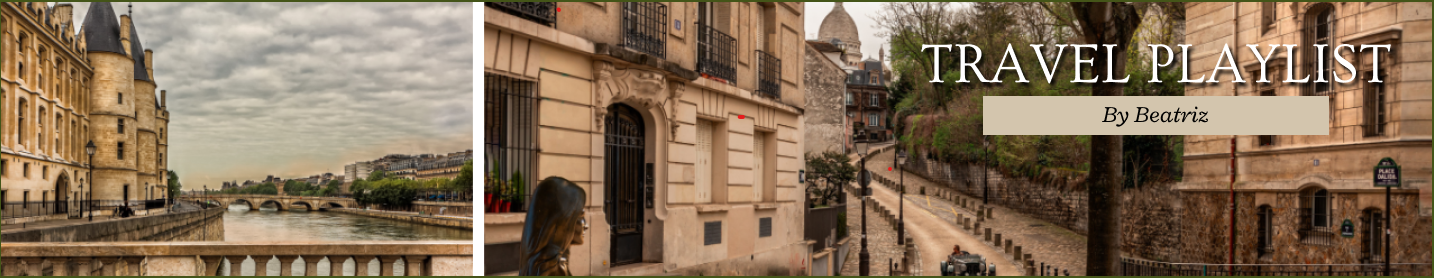
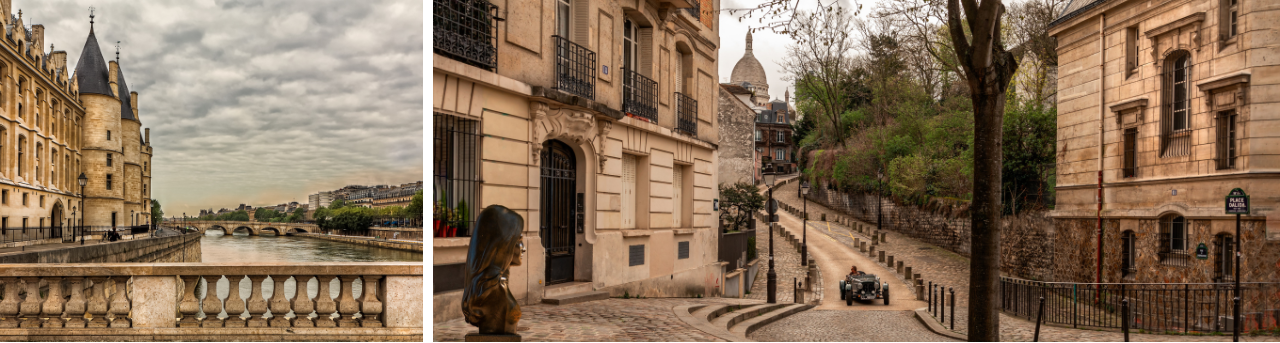
Add profile picture

diff --git a/travelplaylist/index.html b/travelplaylist/index.html
@@ -16,11 +16,15 @@
     <link rel="stylesheet" href="css/header.css">
     <link rel="stylesheet" href="css/title.css">
     <link rel="stylesheet" href="css/sub-title.css">
+    <link rel="stylesheet" href="css/profile-img.css">
 </head>
 <body>
-    <header class="header">
-        <h1>Travel Playlist</h1>
-        <h2 class="sub-title">By Beatriz</h2>
-    </header>
+    <div class="home">
+        <header class="header">
+            <h1>Travel Playlist</h1>
+            <h2 class="sub-title">By Beatriz</h2>
+        </header>
+        <img class="img" src="./css/assets/pixel-art-avatar.png" alt="profile picture">
+    </div>
 </body>
 </html>

diff --git a/travelplaylist/css/header.css b/travelplaylist/css/header.css
@@ -1,6 +1,9 @@
 .header{
     display: flex;
-    background-color: beige;
+    background-image: url(./assets/header.png);
     align-items: flex-end;
     flex-direction: column;
+    height: 280px;
+    box-sizing: border-box;
+    border: 3px solid #445418;
 }

diff --git a/travelplaylist/css/profile-img.css b/travelplaylist/css/profile-img.css
@@ -1,0 +1,9 @@
+.img{
+    margin-left: 52px;
+    display: block;
+    width: 260px;
+    height: 260px;
+    border-radius: 50%;
+    transform: translateY(-130px);
+    border: 2px solid #445418;
+}

diff --git a/travelplaylist/css/title.css b/travelplaylist/css/title.css
@@ -9,4 +9,5 @@ H1{
     line-height: 4rem;
     height: 4rem;
     margin: 1.5% 2.95% 0% 2.95%;
+    text-transform: uppercase;
 }
